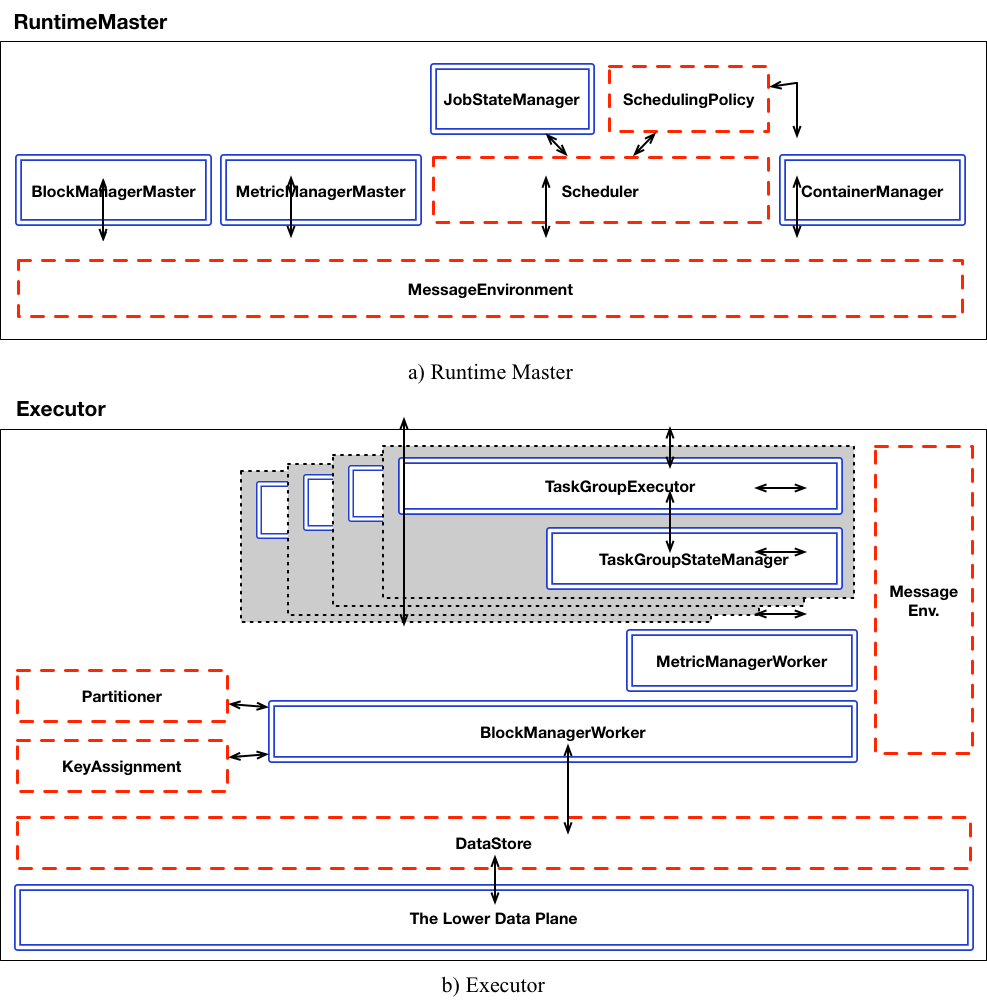
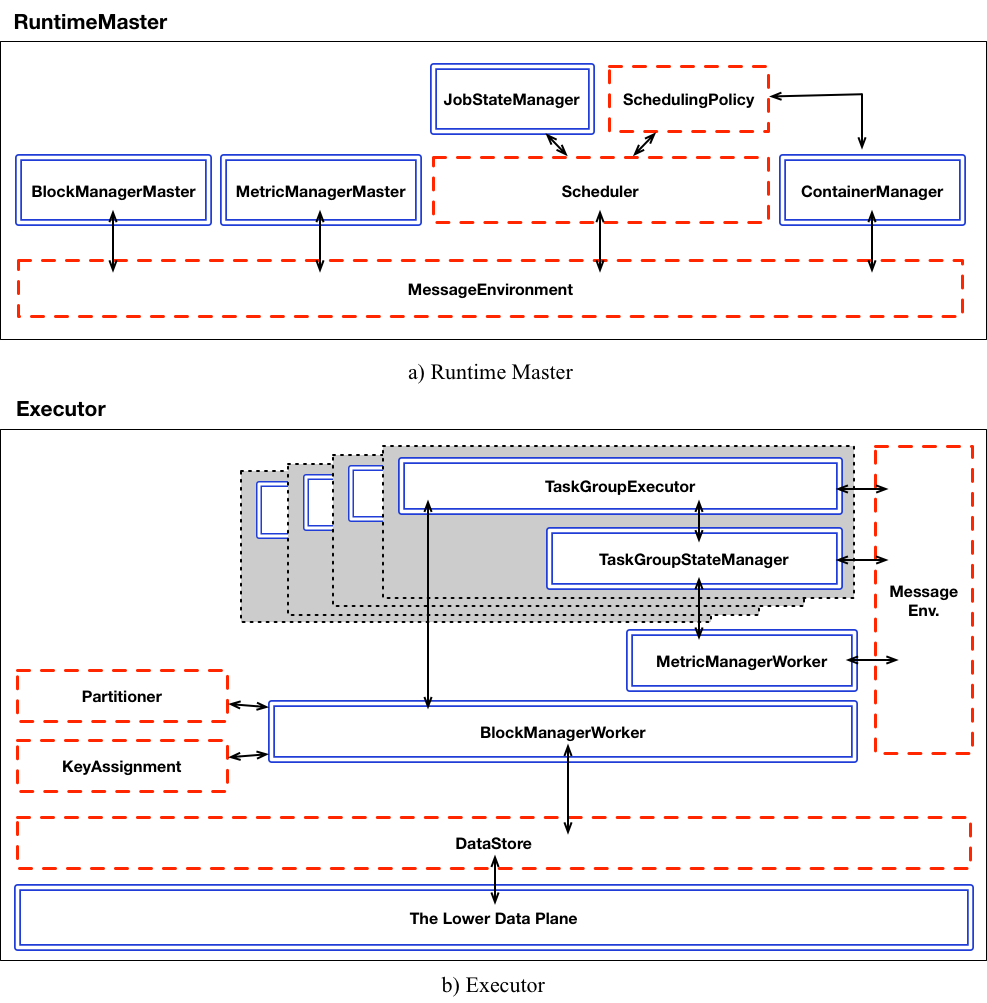
[Minor] Minor Changes to Website (#687)
This PR:

- changes the Onyx website's runtime design figure with corrected arrow connections between components.

- Replaces a few "IR" s to "Intermediate Representation"s.

- Adds int'l phonetic alphabet for Onyx in the main page.

diff --git a/docs/index.html b/docs/index.html
@@ -4,7 +4,7 @@ layout: default
 
 <div class="header-container jumbotron">
     <div class="container">
-    <h1>Onyx</h1>
+    <h1>Onyx <small>[ˈäniks]</small> </h1>
         <p>A Data Processing System for Flexible Employment With Different Deployment Characteristics.</p>
         <p><a class="btn btn-primary btn-lg" href="{{ "/docs/home/" | prepend: site.baseurl }}" role="button">Learn more</a></p>
     </div>
@@ -15,12 +15,12 @@ layout: default
 
     <div class="row">
         <div class="col-md-6">
-            <h2 class="header-light regular-pad">What is Onyx?</h2>
+            <h2 class="header-light regular-pad">What is Onyx? <small>[ˈäniks]</small> </h2>
             <blockquote>
                 <p>
                     Onyx is a data processing system for flexible employment with different execution scenarios for various deployment characteristics on clusters.
                     They include processing data on specific resource environments, like on transient resources, and running jobs with specific attributes, like skewed data.
-                    Onyx decouples the logical notion of data processing applications from runtime behaviors and express them on separate layers using the Onyx IR.
+                    Onyx decouples the logical notion of data processing applications from runtime behaviors and express them on separate layers using Onyx Intermediate Representation (IR).
                     Specifically, through a set of high-level graph pass interfaces, Onyx exposes runtime behaviors to be flexibly configured and modified at both compile-time and runtime, and the Onyx Runtime executes the Onyx IR with its modular and extensible design.
                 </p>
               <!--<p>Jekyll is a simple, blog-aware, static site generator. It takes a template-->

diff --git a/docs/_docs/index.md b/docs/_docs/index.md
@@ -11,7 +11,7 @@ There exists many data processing systems with different designs to solve each o
 The primary reason is because system runtime behaviors are hidden and planted inside the system core to hide the complexity of distributed computing.
 This makes it very hard for a single system to support different *deployment characteristics* with different *runtime behaviors* without substantial effort.
 
-To solve this problem and easily modify *runtime behaviors* for different *deployment characteristics*, Onyx expresses workloads using the [Onyx IR](../ir), which represents the logical notion of data processing applications and its runtime behaviors on separate layers.
+To solve this problem and easily modify *runtime behaviors* for different *deployment characteristics*, Onyx expresses workloads using the [Onyx Intermediate Representation (IR)](../ir), which represents the logical notion of data processing applications and its runtime behaviors on separate layers.
 These layers can be easily modified through a set of high-level [graph pass](../passes_and_policies) interfaces, exposed by the [Onyx Compiler](../compiler_design), enabling users to flexibly modify *runtime behaviors* at both compile-time and runtime.
 Works represented this way can be executed by the [Onyx Execution Runtime](../runtime_design) through its [modular and extensible](../extending_onyx) design.
 

diff --git a/docs/_docs/designs/compiler_design.md b/docs/_docs/designs/compiler_design.md
@@ -7,7 +7,7 @@ permalink: /docs/compiler_design/
 
 Compiler takes an arbitrary dataflow program as input, and outputs an optimized physical execution plan to be understood by the execution runtime. The steps are as followings:
 
-1. **Compiler frontend** first translates the logical layer of given dataflow program written in high-level languages, like Apache Beam, into an expressive, general-purpose [Onyx IR](../ir).
+1. **Compiler frontend** first translates the logical layer of given dataflow program written in high-level languages, like Apache Beam, into an expressive, general-purpose [Onyx Intermediate Representation (IR)](../ir).
 2. Then using the [optimization pass](../passes_and_policies) interface provided by the **Compiler optimizer**, the IR can be flexibly reshaped and annotated with a variety of execution properties that configures the underlying runtime behaviors.
 3. After being processed by _optimization passes_, the **Compiler backend** finally lays out the IR into a physical execution plan, composed of tasks and stages, to be carried out by the [Onyx Execution Runtime](../runtime_design).
 

diff --git a/docs/_docs/optimization/ir.md b/docs/_docs/optimization/ir.md
@@ -1,5 +1,5 @@
 ---
-title: Onyx IR
+title: Onyx Intermediate Representation (IR)
 permalink: /docs/ir/
 ---
 
